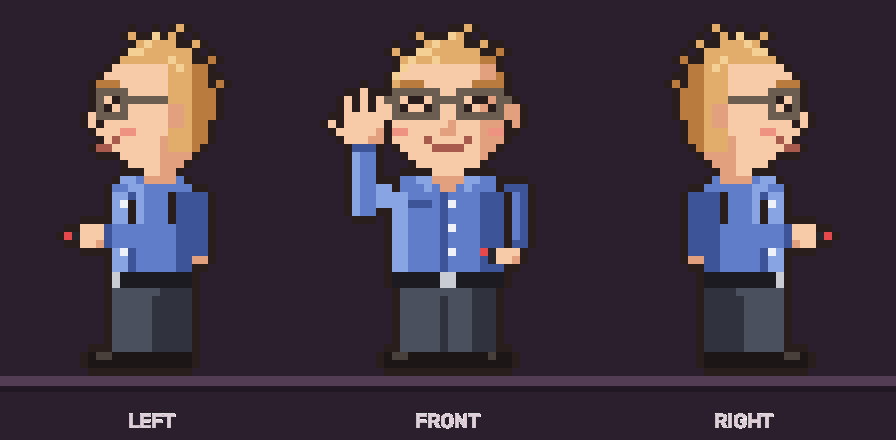
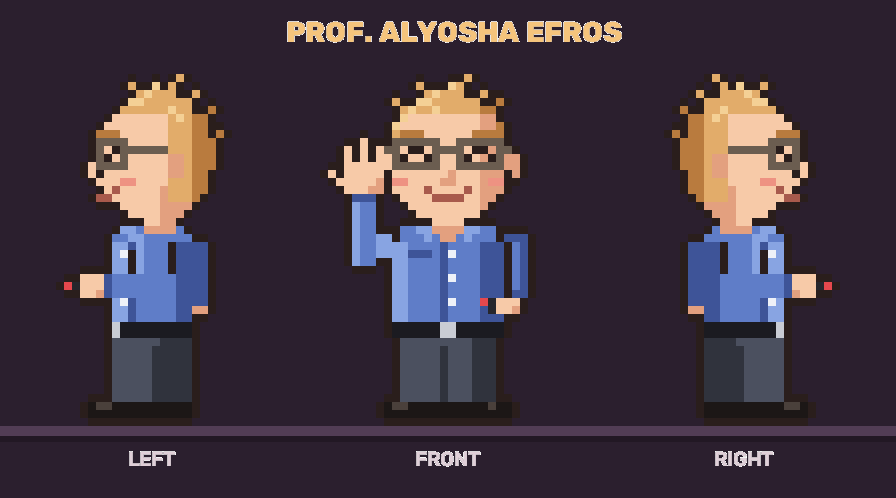
Show full character names on roster and preview sheets
The roster labels each character with title and full name on two lines
(Prof. Alyosha Efros, Prof. Ren Ng, Dean Tsu-Jae King Liu, Chancellor
Rich Lyons, Oski the Bear) and widens the spacing to fit. Each
character's preview sheet now has their full name as a title.

Claude-Session: https://claude.ai/code/session_01E54XCSpxq55gqKhVJqvj2W

diff --git a/assets/characters/pixel_sprite.py b/assets/characters/pixel_sprite.py
@@ -79,32 +79,58 @@ class Canvas:
         return img
 
 
-def preview(views: dict[str, np.ndarray], scale: int = 8) -> np.ndarray:
-    """Views side by side on a dark shelf, like a roster sheet."""
-    pad, gap, shelf_h = 24, 40, 10
+FONT = cv2.FONT_HERSHEY_DUPLEX
+TEXT = (0xd8, 0xcf, 0xe0, 255)    # BGRA
+TITLE = (0x7c, 0xc4, 0xf5, 255)   # gold
+
+
+def _text_width(text: str, size: float) -> int:
+    return cv2.getTextSize(text, FONT, size, 1)[0][0]
+
+
+def preview(views: dict[str, np.ndarray], scale: int = 8, title: str | None = None) -> np.ndarray:
+    """Views side by side on a dark shelf, like a roster sheet.
+
+    Keys are the labels under each view; a "\n" splits a label onto two lines.
+    `title` is drawn across the top.
+    """
+    label_size, line_h = 0.7, 26
+    labels = {name: name.upper().split("\n") for name in views}
+    widest = max(_text_width(line, label_size) for lines in labels.values() for line in lines)
+    pad, shelf_h = 24, 10
+    gap = max(40, widest - W * scale + 24)  # room for long names
+    title_h = 50 if title else 0
+    label_h = max(len(lines) for lines in labels.values()) * line_h + 12
     width = pad * 2 + len(views) * W * scale + (len(views) - 1) * gap
-    height = pad * 2 + H * scale + shelf_h + 30
+    height = title_h + pad * 2 + H * scale + shelf_h + label_h
     sheet = np.zeros((height, width, 4), np.uint8)
     sheet[:] = (0x2e, 0x1f, 0x2b, 255)  # BGRA dark plum
-    floor_y = pad + H * scale
+    top = title_h + pad
+    floor_y = top + H * scale
     sheet[floor_y:floor_y + shelf_h] = (0x55, 0x3d, 0x52, 255)
     sheet[floor_y + shelf_h:floor_y + shelf_h + 6] = (0x24, 0x18, 0x22, 255)
+
+    if title:
+        size = 1.0
+        cv2.putText(sheet, title.upper(), ((width - _text_width(title.upper(), size)) // 2, 42),
+                    FONT, size, TITLE, 2, cv2.LINE_AA)
 
     for i, (name, img) in enumerate(views.items()):
         big = cv2.resize(img, (W * scale, H * scale), interpolation=cv2.INTER_NEAREST)
         x0 = pad + i * (W * scale + gap)
-        region = sheet[pad:pad + H * scale, x0:x0 + W * scale]
+        region = sheet[top:top + H * scale, x0:x0 + W * scale]
         alpha = big[:, :, 3:4] / 255.0
         region[:] = (big * alpha + region * (1 - alpha)).astype(np.uint8)
-        label = name.upper()
-        (tw, _), _ = cv2.getTextSize(label, cv2.FONT_HERSHEY_DUPLEX, 0.7, 1)
-        cv2.putText(sheet, label, (x0 + (W * scale - tw) // 2, height - 12),
-                    cv2.FONT_HERSHEY_DUPLEX, 0.7, (0xd8, 0xcf, 0xe0, 255), 1, cv2.LINE_AA)
+        center = x0 + W * scale // 2
+        for j, line in enumerate(labels[name]):
+            y = floor_y + shelf_h + 30 + j * line_h
+            cv2.putText(sheet, line, (center - _text_width(line, label_size) // 2, y),
+                        FONT, label_size, TEXT, 1, cv2.LINE_AA)
     return sheet
 
 
-def save(folder: Path, front: Canvas, left: Canvas) -> None:
-    """Mirror left into right and write every output file.
+def save(folder: Path, front: Canvas, left: Canvas, name: str) -> None:
+    """Mirror left into right and write every output file. `name` titles the preview.
 
     Call outline() on each canvas first, then add any inner lines.
     """
@@ -112,9 +138,9 @@ def save(folder: Path, front: Canvas, left: Canvas) -> None:
     views = {"left": left_img, "front": front.to_bgra(), "right": cv2.flip(left_img, 1)}
 
     (folder / "views").mkdir(exist_ok=True)
-    for name, img in views.items():
-        cv2.imwrite(str(folder / "views" / f"{name}.png"), img)
+    for view, img in views.items():
+        cv2.imwrite(str(folder / "views" / f"{view}.png"), img)
     (folder / "idle").mkdir(exist_ok=True)
     cv2.imwrite(str(folder / "idle" / "frame_00.png"), views["right"])  # game sprites face right
-    cv2.imwrite(str(folder / "preview.png"), preview(views))
+    cv2.imwrite(str(folder / "preview.png"), preview(views, title=name))
     print(f"wrote views/, idle/frame_00.png and preview.png in {folder}")

diff --git a/assets/characters/make_roster.py b/assets/characters/make_roster.py
@@ -14,7 +14,14 @@ import cv2
 from pixel_sprite import preview
 
 HERE = Path(__file__).resolve().parent
-ROSTER = {"efros": "Efros", "ng": "Ng", "liu": "Liu", "lyons": "Lyons", "oski": "Oski"}
+# folder -> label under the sprite ("\n" starts a second line)
+ROSTER = {
+    "efros": "Prof.\nAlyosha Efros",
+    "ng": "Prof.\nRen Ng",
+    "liu": "Dean\nTsu-Jae King Liu",
+    "lyons": "Chancellor\nRich Lyons",
+    "oski": "Cal mascot\nOski the Bear",
+}
 
 
 def main():
@@ -25,7 +32,7 @@ def main():
     missing = [label for label, img in views.items() if img is None]
     if missing:
         raise SystemExit(f"no front view for {missing}; run their make_sprite.py first")
-    cv2.imwrite(str(HERE / "roster.png"), preview(views))
+    cv2.imwrite(str(HERE / "roster.png"), preview(views, title="Smash CV roster"))
     print(f"wrote {HERE / 'roster.png'}")
 
 

diff --git a/assets/characters/efros/make_sprite.py b/assets/characters/efros/make_sprite.py
@@ -17,6 +17,8 @@ sys.path.insert(0, str(Path(__file__).resolve().parent.parent))
 
 from pixel_sprite import H, W, Canvas, save  # noqa: E402
 
+NAME = "Prof. Alyosha Efros"
+
 PALETTE = {
     "hair": "#e2ac6a", "hair_light": "#f4d095", "hair_dark": "#b97b3e",
     "skin": "#f7caa8", "skin_shade": "#e3a07f", "cheek": "#ee9282",
@@ -183,4 +185,4 @@ def side() -> Canvas:
 
 
 if __name__ == "__main__":
-    save(Path(__file__).resolve().parent, front(), side())
+    save(Path(__file__).resolve().parent, front(), side(), NAME)

diff --git a/assets/characters/liu/make_sprite.py b/assets/characters/liu/make_sprite.py
@@ -17,6 +17,8 @@ sys.path.insert(0, str(Path(__file__).resolve().parent.parent))
 
 from pixel_sprite import Canvas, save  # noqa: E402
 
+NAME = "Dean Tsu-Jae King Liu"
+
 PALETTE = {
     "hair": "#a9abb0", "hair_light": "#d8dade", "hair_dark": "#62656d",
     "skin": "#f1c8a2", "skin_shade": "#d9a580", "cheek": "#e9a08c",
@@ -161,4 +163,4 @@ def side() -> Canvas:
 
 
 if __name__ == "__main__":
-    save(Path(__file__).resolve().parent, front(), side())
+    save(Path(__file__).resolve().parent, front(), side(), NAME)

diff --git a/assets/characters/oski/make_sprite.py b/assets/characters/oski/make_sprite.py
@@ -18,6 +18,8 @@ sys.path.insert(0, str(Path(__file__).resolve().parent.parent))
 
 from pixel_sprite import Canvas, save  # noqa: E402
 
+NAME = "Oski the Bear"
+
 PALETTE = {
     "fur": "#d9b27c", "fur_light": "#efcd9a", "fur_shade": "#b98e57",
     "mane": "#4b301f", "mane_light": "#72503a", "mane_dark": "#2c1c12",
@@ -161,4 +163,4 @@ def side() -> Canvas:
 
 
 if __name__ == "__main__":
-    save(Path(__file__).resolve().parent, front(), side())
+    save(Path(__file__).resolve().parent, front(), side(), NAME)

diff --git a/assets/characters/ng/make_sprite.py b/assets/characters/ng/make_sprite.py
@@ -16,6 +16,8 @@ sys.path.insert(0, str(Path(__file__).resolve().parent.parent))
 
 from pixel_sprite import Canvas, save  # noqa: E402
 
+NAME = "Prof. Ren Ng"
+
 PALETTE = {
     "hair": "#24242c", "hair_light": "#454a5c", "hair_dark": "#121218",
     "skin": "#f0c39a", "skin_shade": "#d8a179", "cheek": "#e6a08a",
@@ -160,4 +162,4 @@ def side() -> Canvas:
 
 
 if __name__ == "__main__":
-    save(Path(__file__).resolve().parent, front(), side())
+    save(Path(__file__).resolve().parent, front(), side(), NAME)

diff --git a/assets/characters/lyons/make_sprite.py b/assets/characters/lyons/make_sprite.py
@@ -17,6 +17,8 @@ sys.path.insert(0, str(Path(__file__).resolve().parent.parent))
 
 from pixel_sprite import Canvas, save  # noqa: E402
 
+NAME = "Chancellor Rich Lyons"
+
 PALETTE = {
     "hair": "#c9ccd2", "hair_light": "#eff1f4", "hair_dark": "#8f949e",
     "beard": "#dfe2e7", "beard_shade": "#aab0ba",
@@ -202,4 +204,4 @@ def side() -> Canvas:
 
 
 if __name__ == "__main__":
-    save(Path(__file__).resolve().parent, front(), side())
+    save(Path(__file__).resolve().parent, front(), side(), NAME)
